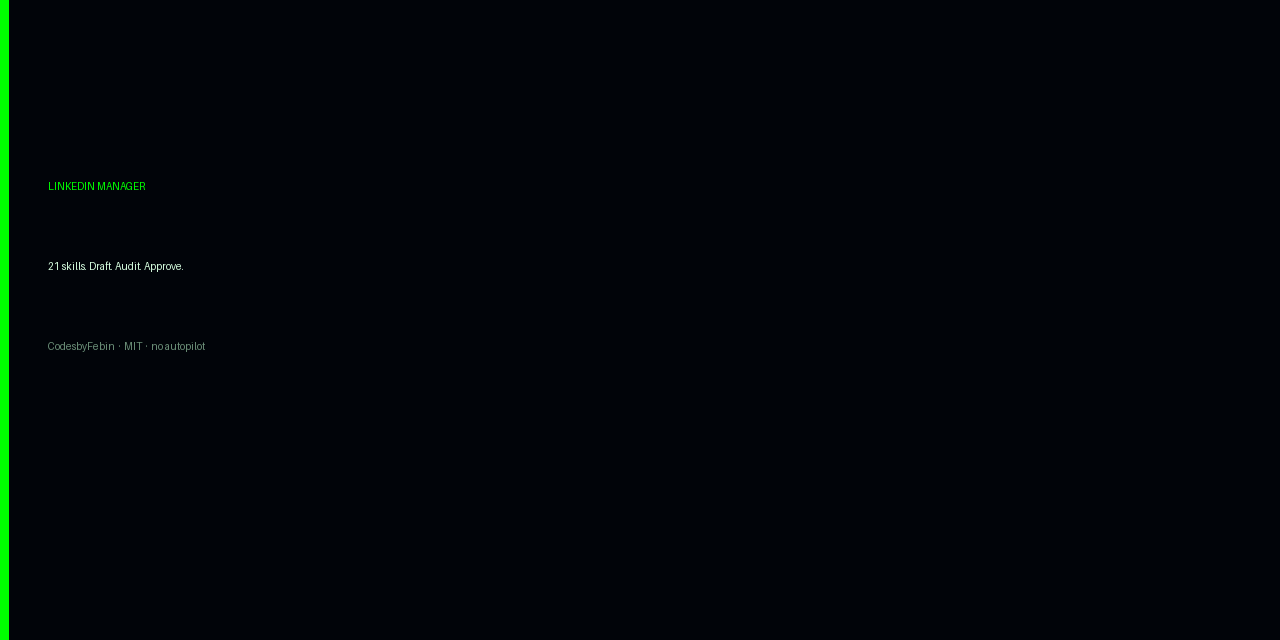
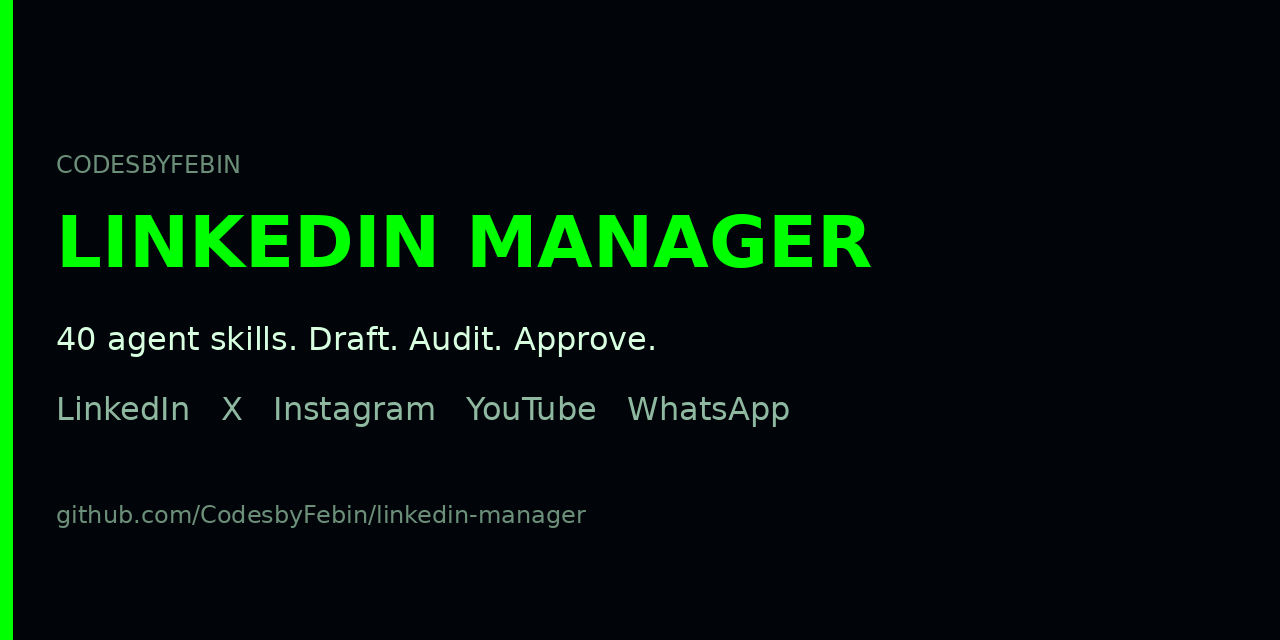
Harden discovery files and rebuild the social card.
Clean MIT license, citation, llms.txt, conduct, PR template, and a
Pages index with Open Graph and schema. Social card is 1280x640.

diff --git a/.github/PULL_REQUEST_TEMPLATE.md b/.github/PULL_REQUEST_TEMPLATE.md
@@ -1,0 +1,8 @@
+## What
+-
+
+## Check
+- [ ] Skill folder name matches frontmatter name
+- [ ] Manifest count still matches `python3 scripts/check_frontmatter.py`
+- [ ] No secrets, no filled voice profile
+- [ ] Does not publish or apply without an explicit yes

diff --git a/.github/CODE_OF_CONDUCT.md b/.github/CODE_OF_CONDUCT.md
@@ -1,0 +1,3 @@
+# Code of conduct
+
+Be direct. Critique the skill, not the person. No scraped personal data in issues. No requests to auto-post or auto-apply.
